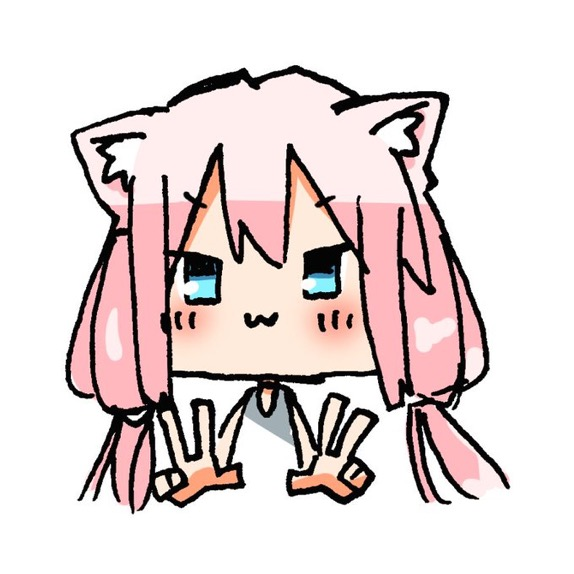
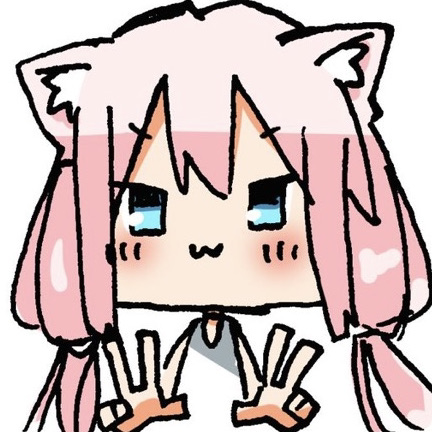
polish style

diff --git a/pages/index.js b/pages/index.js
@@ -1,12 +1,19 @@
 import Head from 'next/head'
-import styles from '../styles/Home.module.css'
 import Image from 'next/image'
 
 export default function Home() {
   return (
-    <>
-      <Image src="/../public/images/profile.jpg" alt="my profile picture" width="400" height="400" /> 
-      <h1>object1037</h1>
-    </>
+    <div className="flex flex-col">
+      <Head>
+        <title>object_1037</title>
+        <meta name="viewport" content="initial-scale=1.0, width=device-width" />
+      </Head>
+      <div className="justify-center object-none flex-shrink flex items-center mb-2 mt-4">
+        <div className="flex justify-center content-center rounded-full border-solid border-2 border-gray-300">
+          <Image priority src="/images/profile.jpg" alt="my profile picture" width="200" height="200" className="rounded-full" /> 
+        </div>
+      </div>
+      <h1 className="font-sans font-bold text-center text-4xl m-2">object_1037</h1>
+    </div>
   )
 }

diff --git a/styles/globals.css b/styles/globals.css
@@ -1,16 +1,3 @@
-html,
-body {
-  padding: 0;
-  margin: 0;
-  font-family: -apple-system, BlinkMacSystemFont, Segoe UI, Roboto, Oxygen,
-    Ubuntu, Cantarell, Fira Sans, Droid Sans, Helvetica Neue, sans-serif;
-}
-
-a {
-  color: inherit;
-  text-decoration: none;
-}
-
-* {
-  box-sizing: border-box;
-}
+@tailwind base;
+@tailwind components;
+@tailwind utilities;

diff --git a/tailwind.config.js b/tailwind.config.js
@@ -2,6 +2,12 @@ module.exports = {
   purge: ['./pages/**/*.{js,ts,jsx,tsx}', './components/**/*.{js,ts,jsx,tsx}'],
   darkMode: false, // or 'media' or 'class'
   theme: {
+    container: {
+      center: true,
+    },
+    borderRadius: {
+      'full': '9999px',
+    },
     extend: {},
   },
   variants: {

diff --git a/pages/_app.js b/pages/_app.js
@@ -1,8 +1,7 @@
 import '../styles/globals.css'
-import "tailwindcss/tailwind.css";
 
-function MyApp({ Component, pageProps }) {
+function App({ Component, pageProps }) {
   return <Component {...pageProps} />
 }
 
-export default MyApp
+export default App
